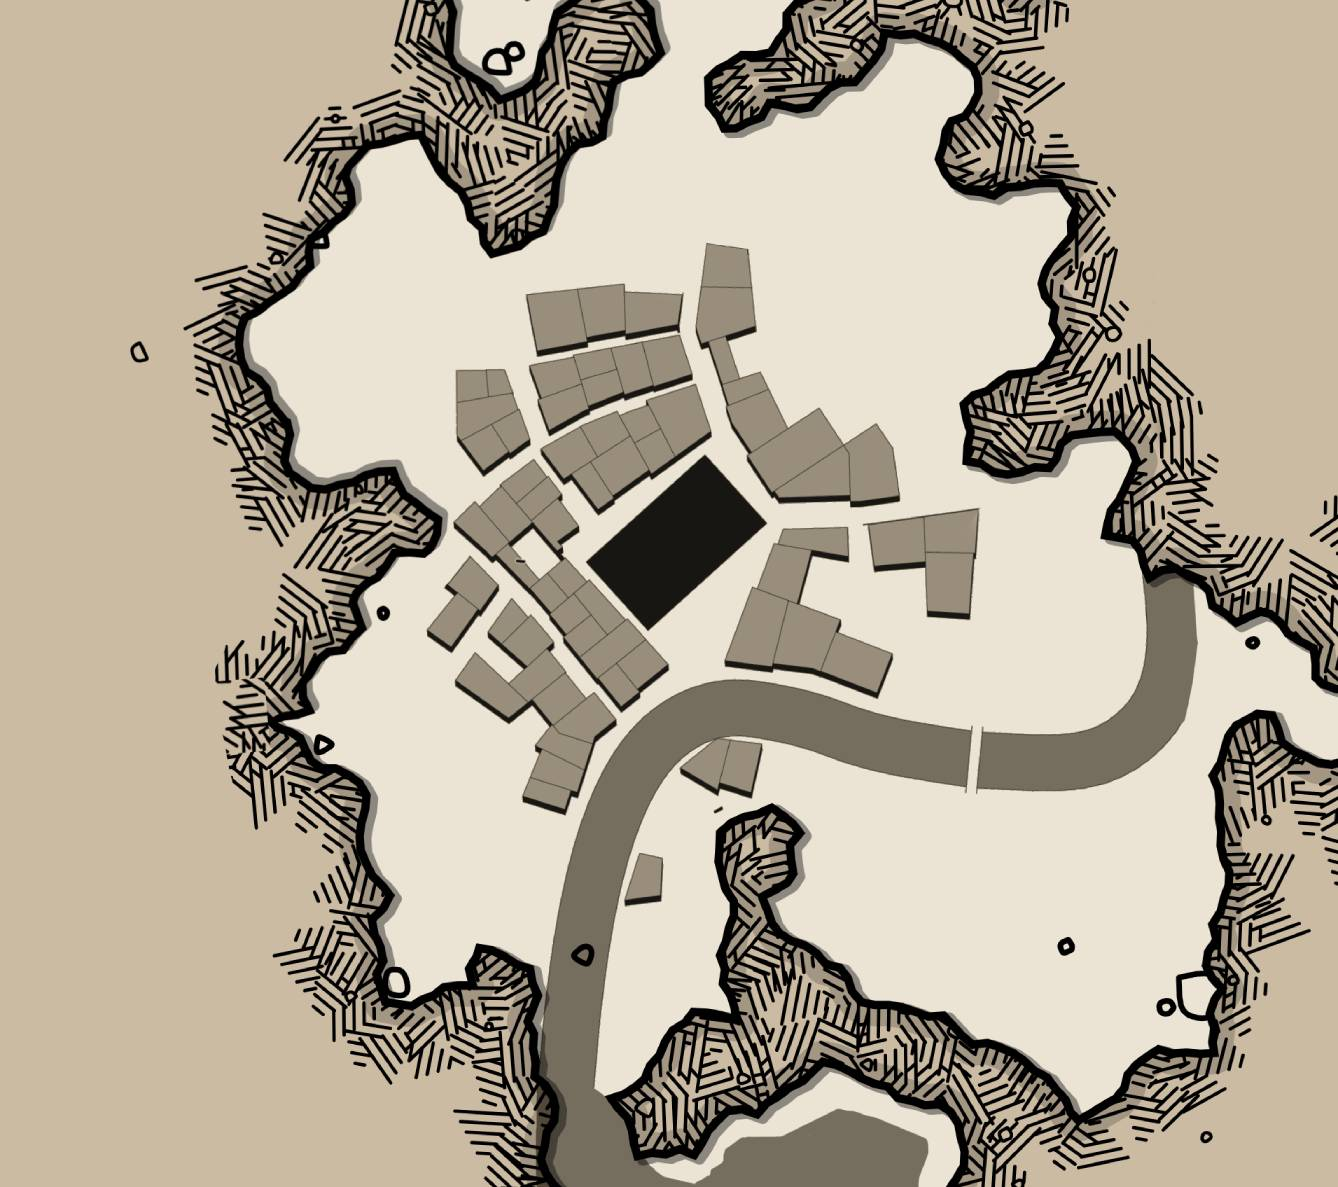
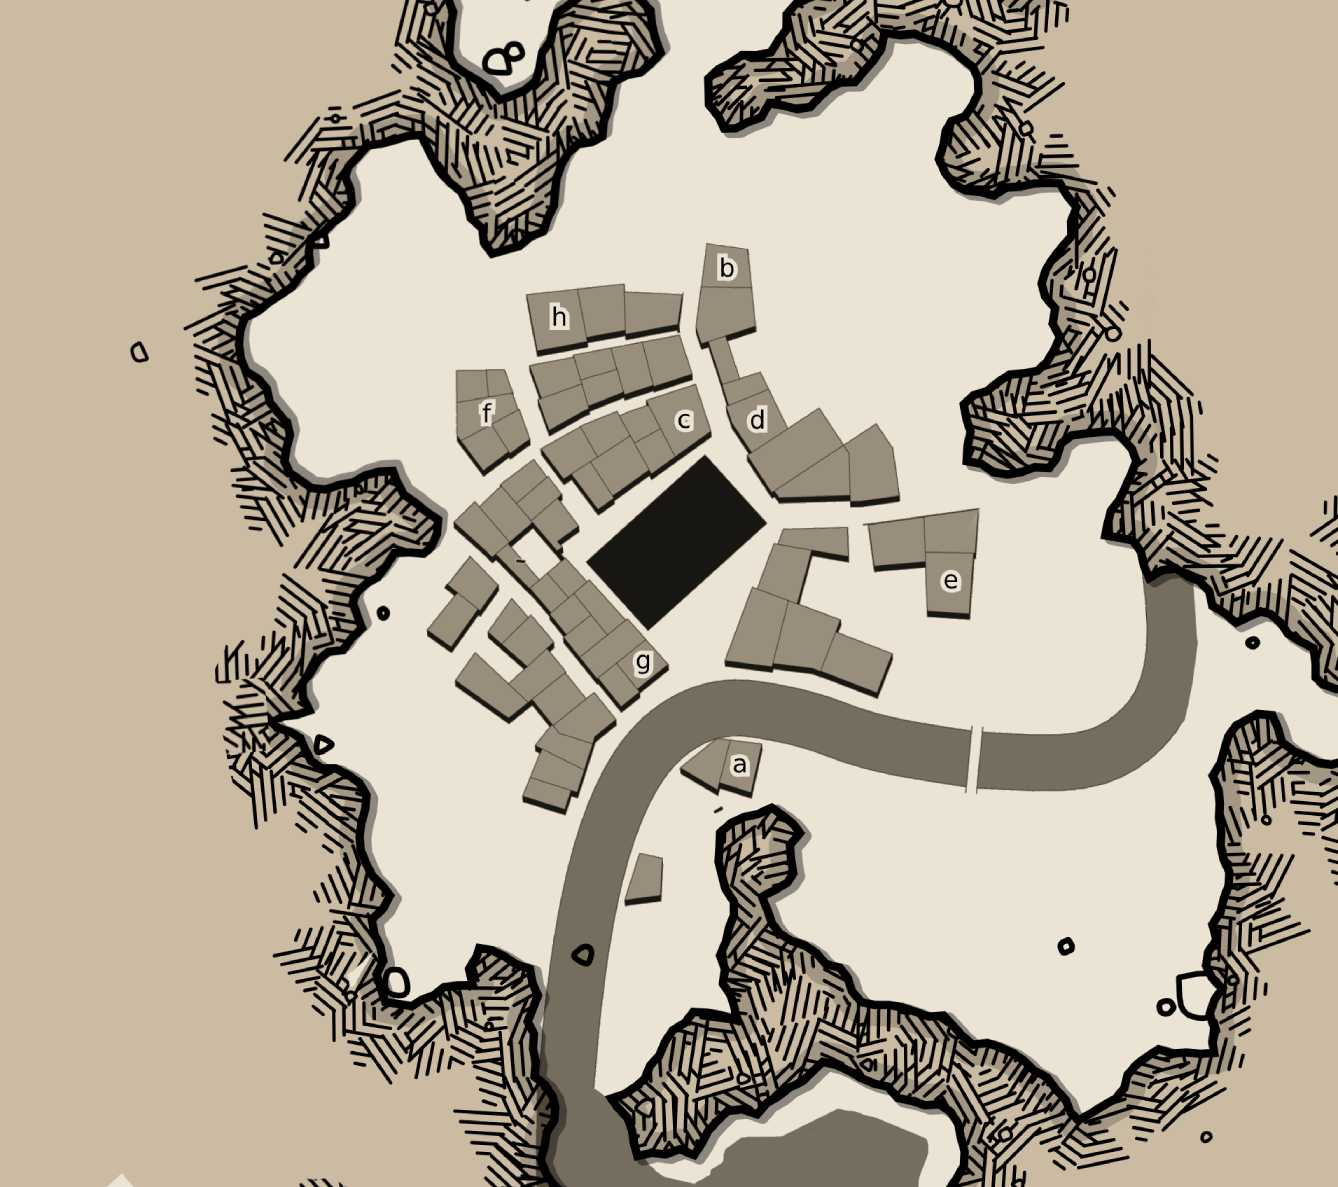
Xyndrasis, Trixie loot

diff --git a/shadow-of-ashes/docs/xyndrasis.md b/shadow-of-ashes/docs/xyndrasis.md
@@ -11,13 +11,70 @@ you make slow and steady progress downwards deeper into the labrinth.
 
 # Encounters in the tunnels
 
-## Rescuing Mezer
+## Rescuing Nerkith
 The familiar clicking sound of Carrion Beetles are mixed with the battle grunts of
 another humanoid. The PCs can follow the sound down a path where they'd encounter
-Mezer battling two infected Carrion Beetles. Mezer is scouting and attempting
+Nerkith battling two infected Carrion Beetles. Nerkith is scouting and attempting
 to map out the tunnels (poorly). He is injured. He does not know the exact way
 back, but can fumble back to Xyndrasis at half the rate that the PCs can travel
 following the signs.
 
 ## Grand Overlook
+
+The canonical tunnel path eventually leads to an overlook at the north side of the
+cavern system that leads to a grand view of the subterranean city, Xyndrasis. Nerkith
+can point out the major landmarks (survivor's camp, Temple of the Frozen Shadow). The
+city is covered in fluorescent spores known to the outsiders as blight (but the
+proper name for the mushroom and spores is Nightbloom).
+
+# Survivor's Camp
+
+The PCs meet two groups of survivors, those who want to leave and those who wish
+to investigate/retrieve the artifact/save the prince. None who ventured into the
+temple returned. The camp currently has 32 survivors (including Nerkith), divided
+into two groups:
+
+## Rescuers
+
+Led by Zara's younger sister Yi'sha, the group consists of 12 people total including
+Yi'sha and Nerkith. They lean younger, and still maintains hope that the city can
+be saved.
+
+## Exiles
+
+Led by Kyrmim, a grizzled and hardy farmer who is calm but firm, insists that his
+group of 20 and everyone else leave through the tunnels.
+
+# What the ashlings know about the situation:
+> During the invasion some 65 years ago, Zara led a group of refugees out of
+Xyndrasis to seek aid from the fae elves. The two did not part on good terms.
+Prince Renu felt justifiably angry and
+betrayed, and activated all the security measures and limited access to darkstone
+amulets, effectively sealing the city off from outside influences. The prince
+becomes increasingly reclusive and eccentric.
+
+> 3 months ago, the city was shocked by a wave of arcane energy, then waves of
+void worms flood the city, killing most of the inhabitants. Four of the strongest
+fighters ventured into the temple months ago but did not return. An elder priest, Loris, is
+able to keep the survivors alive by creating water and purifying food, but the
+remaining supplies are dwindling. Without a darkstone amulet, the survivors are
+trapped.
+
+# Buildings in the city
 ![map-xyndrasis.jpg](map-xyndrasis.jpg)
+- **A** Survivor's Refuge  
+- **B** Armory  
+While the breached outer room consists of common weapons, armor (including half plates), and equipment,
+the locked treasury room contains magical items.
+- **C** Moonlit Bladeworks (Blacksmith)  
+One magic shield is worn and undergoing repair, but is usable.
+- **D** Arcanum of Mastery  
+Scrolls, one wand, one enchanted cloak
+- **E** Granary (Mostly Depleted)
+- **F** Xyndrash Estate  
+The early notes about Renu's research can be found here. Properties of the Tear
+as an arcane/divine object, attunement process, and its innate ability to
+boost divine magic and promote growth.
+- **G** Lustrous Libations (Bar)  
+Quality booze can be found here.
+- **H** Granary

diff --git a/shadow-of-ashes/docs/ruins-of-keroc.md b/shadow-of-ashes/docs/ruins-of-keroc.md
@@ -149,3 +149,25 @@ Two necromancers work here. 6 skeleons can be activated to fight for the necroma
 ### The Alchemist's Lab
 ![location-keroc-alchemy-lab.jpeg](location-keroc-alchemy-lab.jpeg)
 Two skeletons armed with crossbows shoot on command.
+
+Trixie's loot table:
+
+- Research notes:
+> Compared to the elegance of mutagens, alchemical grenades are such blunt, inelegant weapons. Alas,
+it is what I am tasked to produce and what I will deliver.
+**Trixie's Alchemist Fire**
+Using the regular formula, the chemicals become inert in two weeks.
+- Adding extra doses of the retardant spoils the chemicals and make them immediately inert. A **(DC 16)** precise measurement can
+make this addition undetectable.
+- Adding pinches of accelerant (Trixie's lab contains several vials of these red powders) can turn the
+vials into time bombs. The vials can be timed to self detonate within days **(DC 16)**, hours **(DC 18)**, or minutes **(DC 20)**.
+When the vials are time tempered, a *Critical Success* means the timing is precisely tuned to the next unit of measurements.
+A *Success* means it'd be off by 1d6 of the next unit of measurement, a *Failure* means the chemicals can no longer be
+tempered again without immediately exploding, and a *Critical Failure* means the chemicals explode **immediately**.
+
+- Letters from Darthic (The Herald)
+> Mak Gorim is as cunning as he is ruthlessly brutal in the art of war. Tread lightly, and do the rouse
+the dragon's suspicion to our schemes.
+Written in elvish, the letters are as much scathing critisicm of Mak Gorim's scheme as it is a warning to Trixie
+about his ingenuity. The tone suggests a planned betrayal in the distant future, but nothing explicit in the letters give this away.
+

diff --git a/shadow-of-ashes/docs/docs-burning-hand-cult-notes.md b/shadow-of-ashes/docs/docs-burning-hand-cult-notes.md
@@ -6,8 +6,8 @@
 **(74 ES 19 Petalweald)** First diary entry, Dagon leaves Soliarch.  
 **(74-83 ES)** Dagon establish a collective farm with his friend Torbek  
 **(84 ES)** Torbek meets and marries Rydia (before she became Reaven)  
-**(92 ES Firefall)** Year of extra dry weather causing bad harvest  
-**(92 ES 10 Snowveil)** Night of Terror - Torbek made an example of and died,
+**(92 ES)** Year of extra dry weather causing bad harvest  
+**(92 ES 10 Firefall)** Night of Terror - Torbek made an example of and died,
 killed by then militia captain Reginald Thorne (now captain of the Stormwatch).  
 **(92 ES Bladewind)** Rydia, now Reaven, the Scarred Man, Dagon, and others found the Burning Hands Brotherhood. Meeting occurs monthly on the 10th.  
 **(99 ES)** Mak Gorim joins the Brotherhood and begins military training for Orcs in the ranks  

diff --git a/shadow-of-ashes/docs/session-history.md b/shadow-of-ashes/docs/session-history.md
@@ -91,5 +91,8 @@ one of the guards broke off in search of more help from the initiates. The PCs r
 and urge them to save the initiates working on excavation.
 3. The PCs heads to the excavation site, defeats Digrot, and let the initiates loose. Junka and his escorts chase after the initiates.
 
-2. 
-3. while a search party was roused to search for them.
+(Session 5 Starts)
+1. The PCs chased off the bone pickers, defeated a squad of guards, defeated the necromancers, and killed Trixie.
+2. PCs reached level 3.
+
+# The invasion was planned to occur on the 10th of Firefall.
